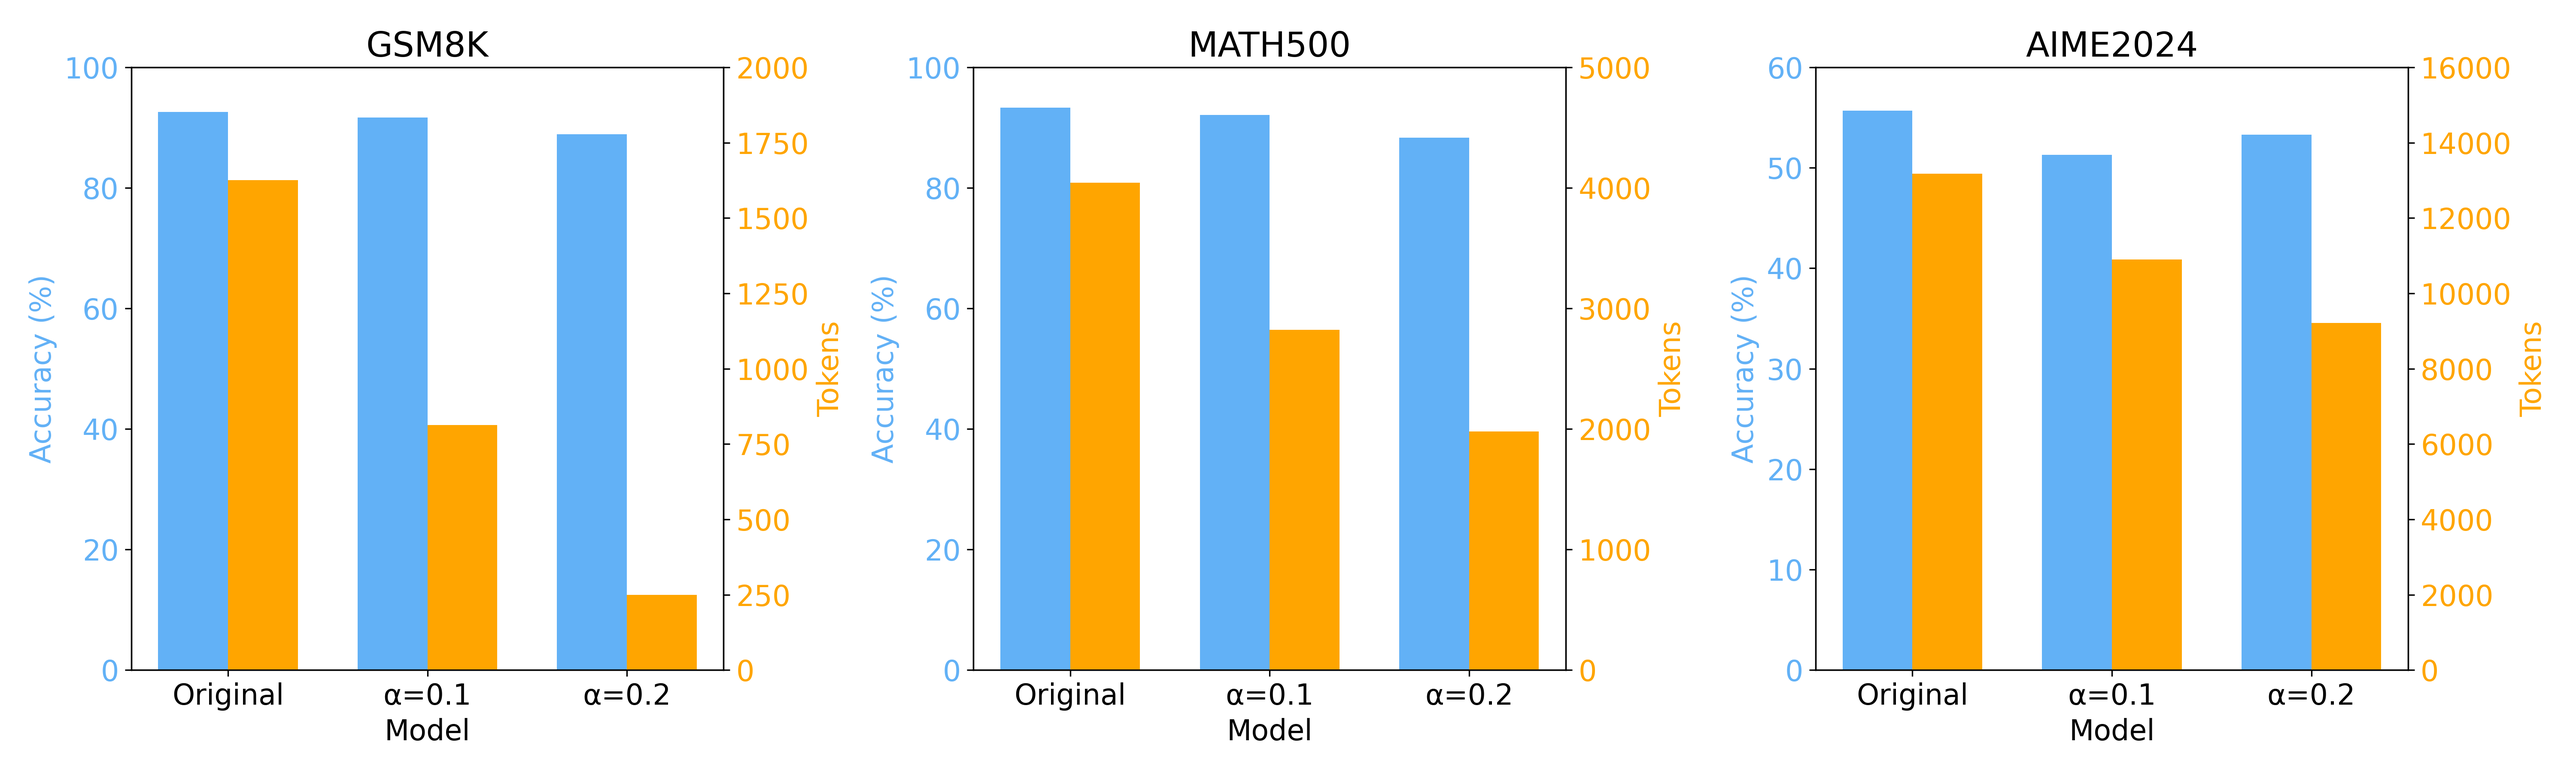
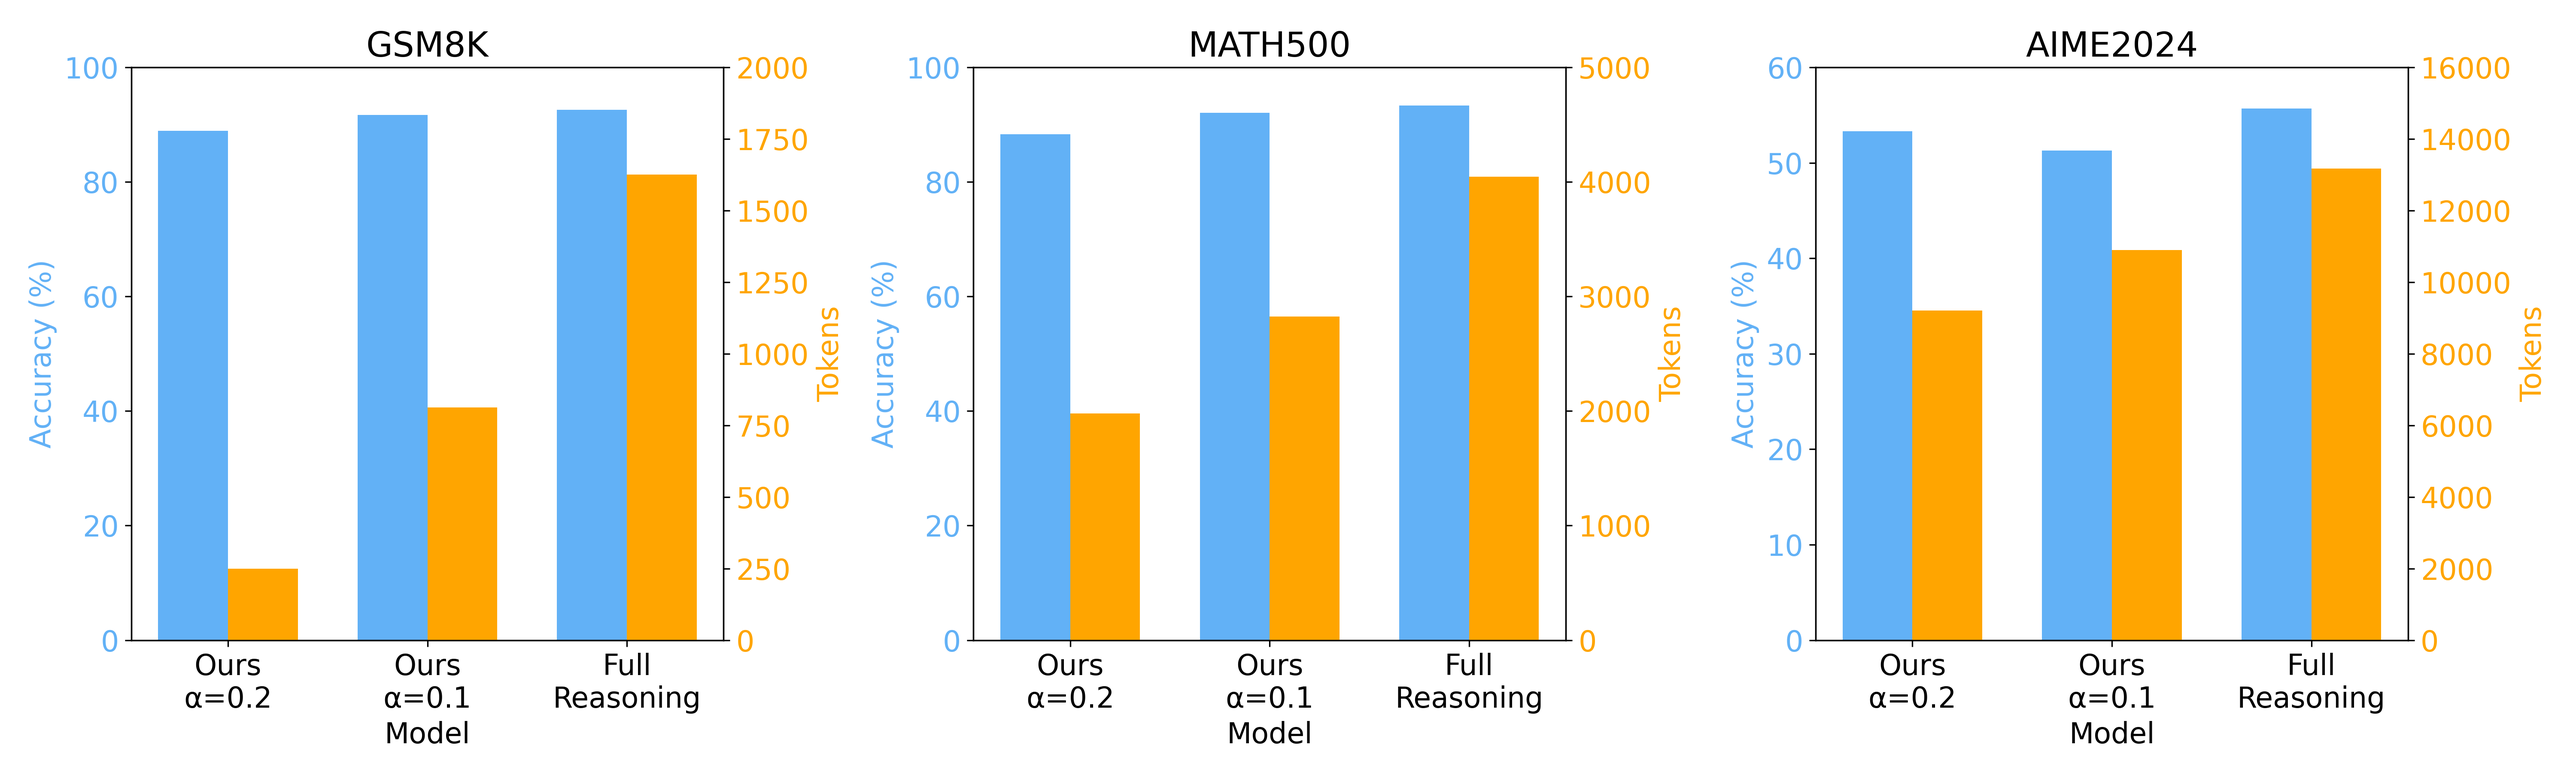
minor

diff --git a/index.html b/index.html
@@ -140,9 +140,7 @@ To address this, we propose to train models to use the least possible amount of 
                  style="margin: auto; display: block;"  />
             <div style="display: block; width: 100%; text-align: center;">
               <p style="font-size: 0.8em; margin-top: 0.5rem">
-                <strong>Figure 1:</strong> Results normalized across the GSM8K, MATH500, and AIME2024 datasets. 
-                Instruct refers to the Qwen2.5-Math-7B-Instruct model whereas Full Reasoning refers to DeepSeek-R1-Distill-Qwen-7B model.
-                The tokens and accuracy are normalized with respect to the Full Reasoning model. &alpha; = 0.1 and &alpha; = 0.2 are models trained by us which are comparable to the Full Reasoning model in terms of accuracy but use significantly lower number of tokens during inference time.
+                <strong>Figure 1:</strong> Our models achieve comparable accuracy to the Full Reasoning model (DeepSeek-R1-Distill-Qwen-7B) while significantly reducing token consumption during inference. Results are normalized across the GSM8K, MATH500, and AIME2024 datasets; Instruct refers to the Qwen2.5-Math-7B-Instruct model. Token usage and accuracy are normalized relative to the Full Reasoning model. 
               </p>
             </div>
           </div>
@@ -186,13 +184,13 @@ To address this, we propose to train models to use the least possible amount of 
               
               <p style="text-align: center; font-size: 0.8em; margin-top: 0.5rem; margin-bottom: 1rem;">
                 <strong>Figure 2:</strong> Detailed comparison of the number of tokens and accuracy achieved by different models to solve problems in the GSM8K, MATH500, and AIME2024 datasets. 
-                As can be seen from the figure, the reduction in tokens achieved for the same values of &alpha; are much higher for easier problems (such as GSM8K) and lower for harder problems (such as AIME2024).
-                This shows that our training procedure adapts the response length based on the difficulty of the problem.
+                The reduction in tokens achieved for the same values of &alpha; are much higher for easier problems (such as GSM8K) and lower for harder problems (such as AIME2024).
+                This shows that our training procedure leads to models that can dynamically adapt the test-time compute based on the difficulty of the problem.
               </p>
             </div>
             <p style="text-align: justify;">
-              Our method can generate a <strong>family of reasoning models</strong>, governed by a
-              coefficient &alpha;. Starting with DeepSeek-R1-Distill-Qwen-7B (labeled "original" in the
+              Our post-training procedure generates a <strong>family of reasoning models</strong>, governed by a
+              coefficient &alpha;. Starting from a reasoning model such as DeepSeek-R1-Distill-Qwen-7B (labeled "Full Reasoning" in the
               figure), increasing &alpha; boosts generation efficiency—yielding shorter chain-of-thoughts—
               while largely preserving response accuracy.
             </p>
@@ -213,7 +211,7 @@ To address this, we propose to train models to use the least possible amount of 
        alt="Logo" 
        style="height: 40px; margin-right: 10px;" />
   <!-- Heading text -->
-  Training Procedure
+  Post-Training Procedure
 </h2>
 
           <div id="main-content">
@@ -223,19 +221,18 @@ To address this, we propose to train models to use the least possible amount of 
                      alt="Training Method Overview"
                      height="400" />
                 <p style="text-align: center; font-size: 0.8em; margin-top: 0.5rem; margin-bottom: 1rem;">
-                  <strong>Figure 3:</strong> Training method overview. For each prompt in the dataset, the Language Model generates multiple responses which are then rewarded based on 
-                  correctness and response length. The model is then optimized using policy gradients.
+                  <strong>Figure 3:</strong> Overview of the training method.
                 </p>
               </div>
               <p>
-                We use reinforcement learning to train models for both accuracy and token efficiency. For each prompt, multiple solutions are sampled and rewarded based on correctness and response length. The shortest correct answers receive the highest rewards, followed by longer correct ones, while incorrect responses receive the lowest rewards. The models are then updated using policy gradients.
+                We use reinforcement learning to post-train models for both accuracy and token efficiency. For each prompt, multiple solutions are sampled and rewarded based on correctness and response length. The shortest correct answers receive the highest rewards, followed by longer correct ones, while incorrect responses receive the lowest rewards. The models are then updated using policy gradients.
               </p>
               <div class="figure" style="margin-top: 2rem;">
                 <img src="static/images/eqn.drawio-4.pdf"
                      alt="Training Method Overview"
                      style="width: 75%; display: block; margin: auto;" />    
                 <p style="text-align: center; font-size: 0.8em; margin-top: 0.5rem;">
-                  <strong>Figure 4:</strong> Reward function used for training. All incorrect responses get a reward of 0 whereas correct sequences are rewarded higher if they are shorter in length compared to other correct responses. It is to be noted that the mean and variance are computed over all the correct responses for that prompt.
+                  <strong>Figure 4:</strong> Reward function used for training. Incorrect responses receive a reward of 0, while correct responses are assigned higher rewards if they are shorter compared to other correct responses. The mean and variance are computed across all correct responses for a given prompt. \( \mathbb I_{correct}(x,y) \) indicates that the response \( y \) is correct with respect to prompt \( x \).
                 </p>
               </div>
             </div>
